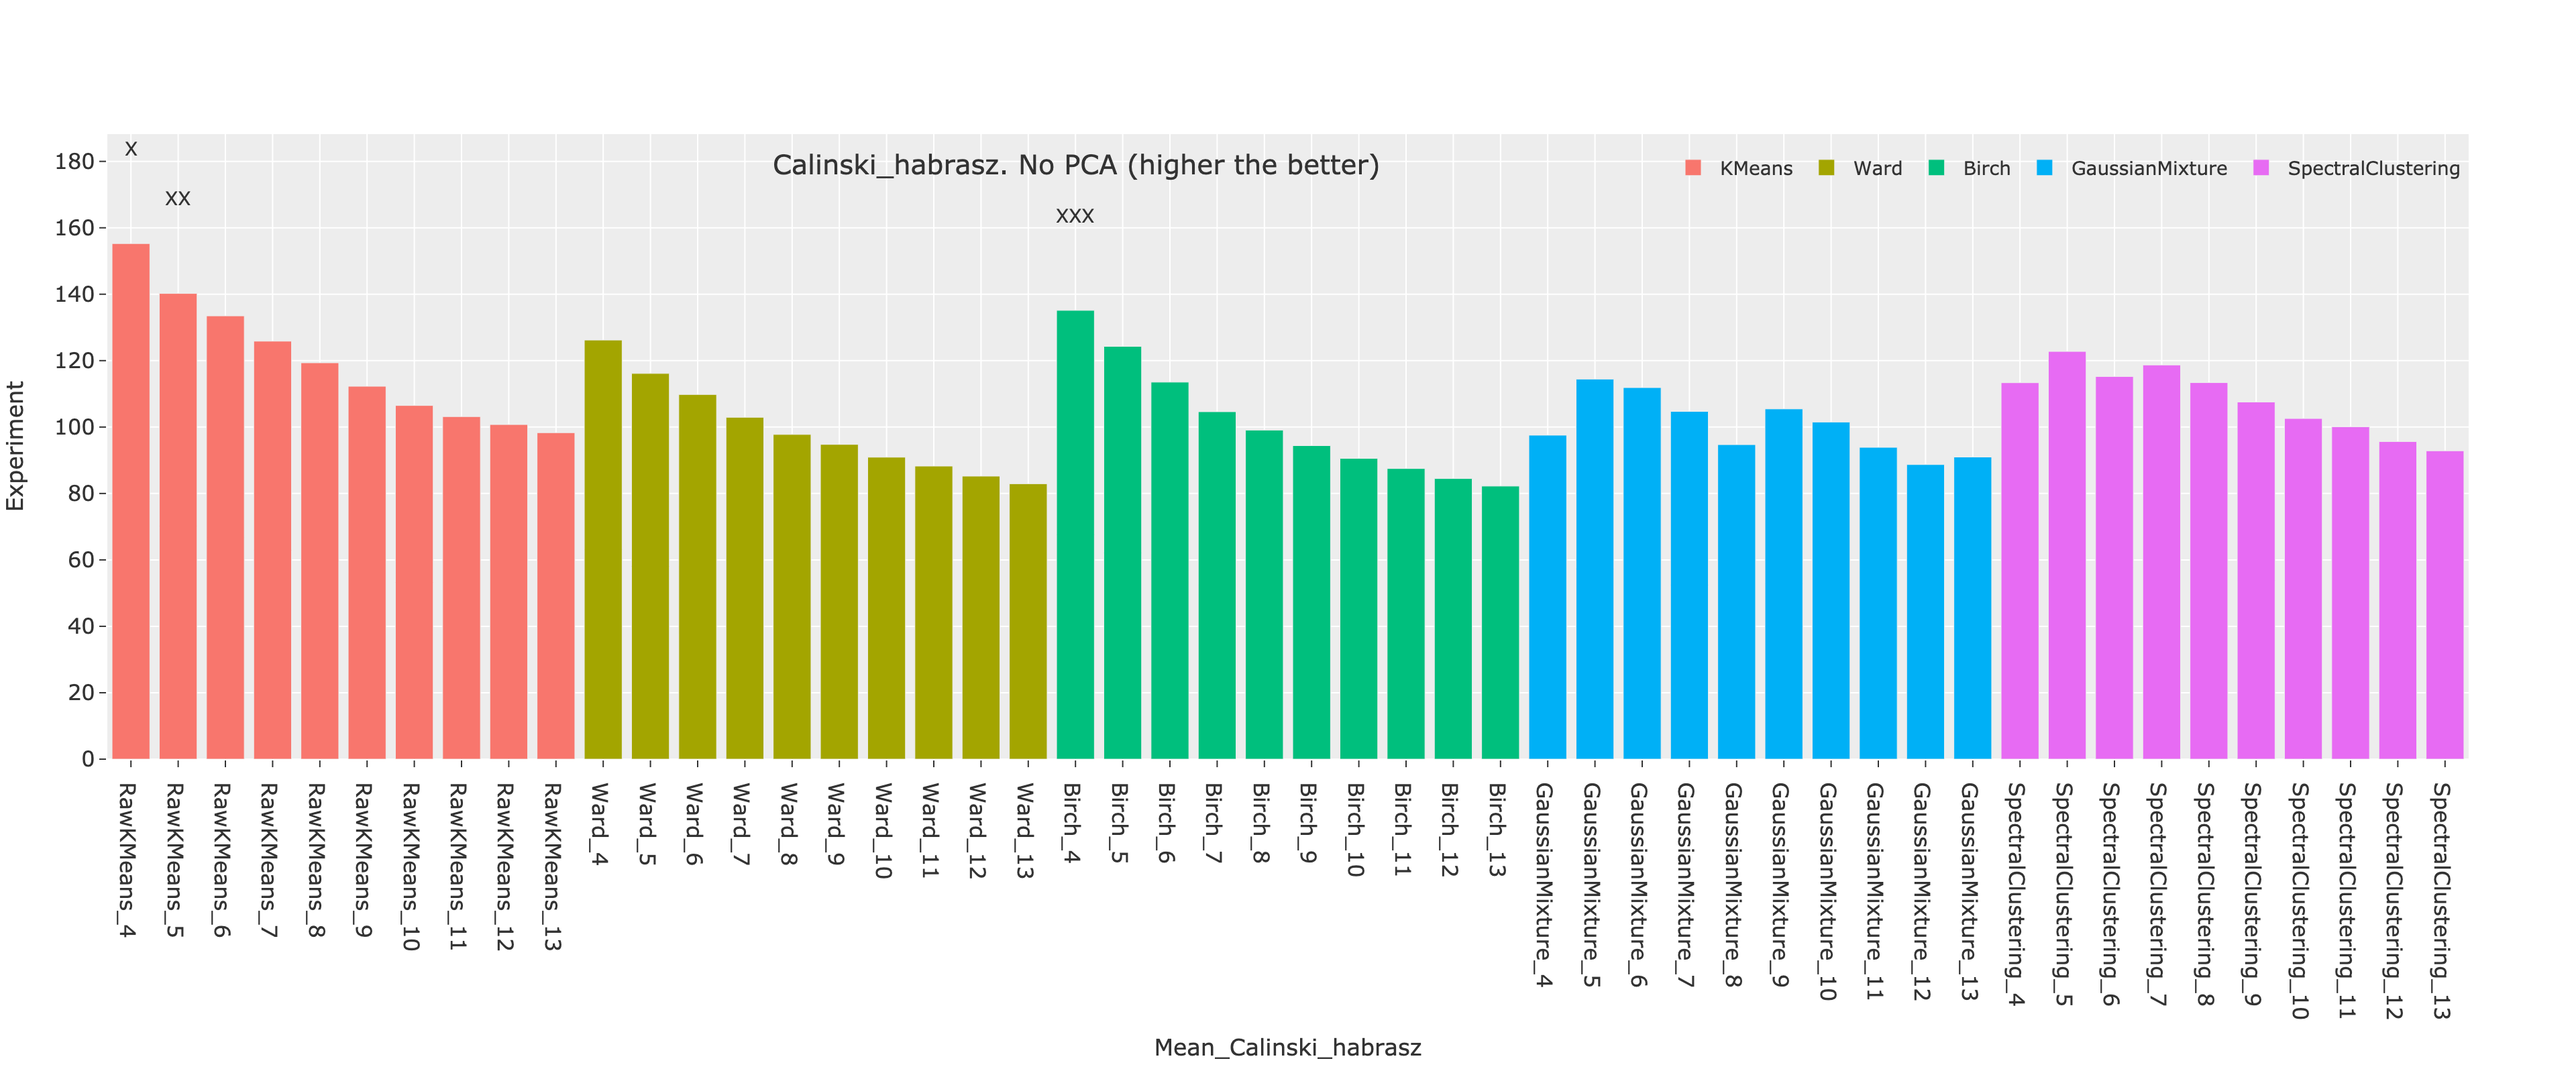
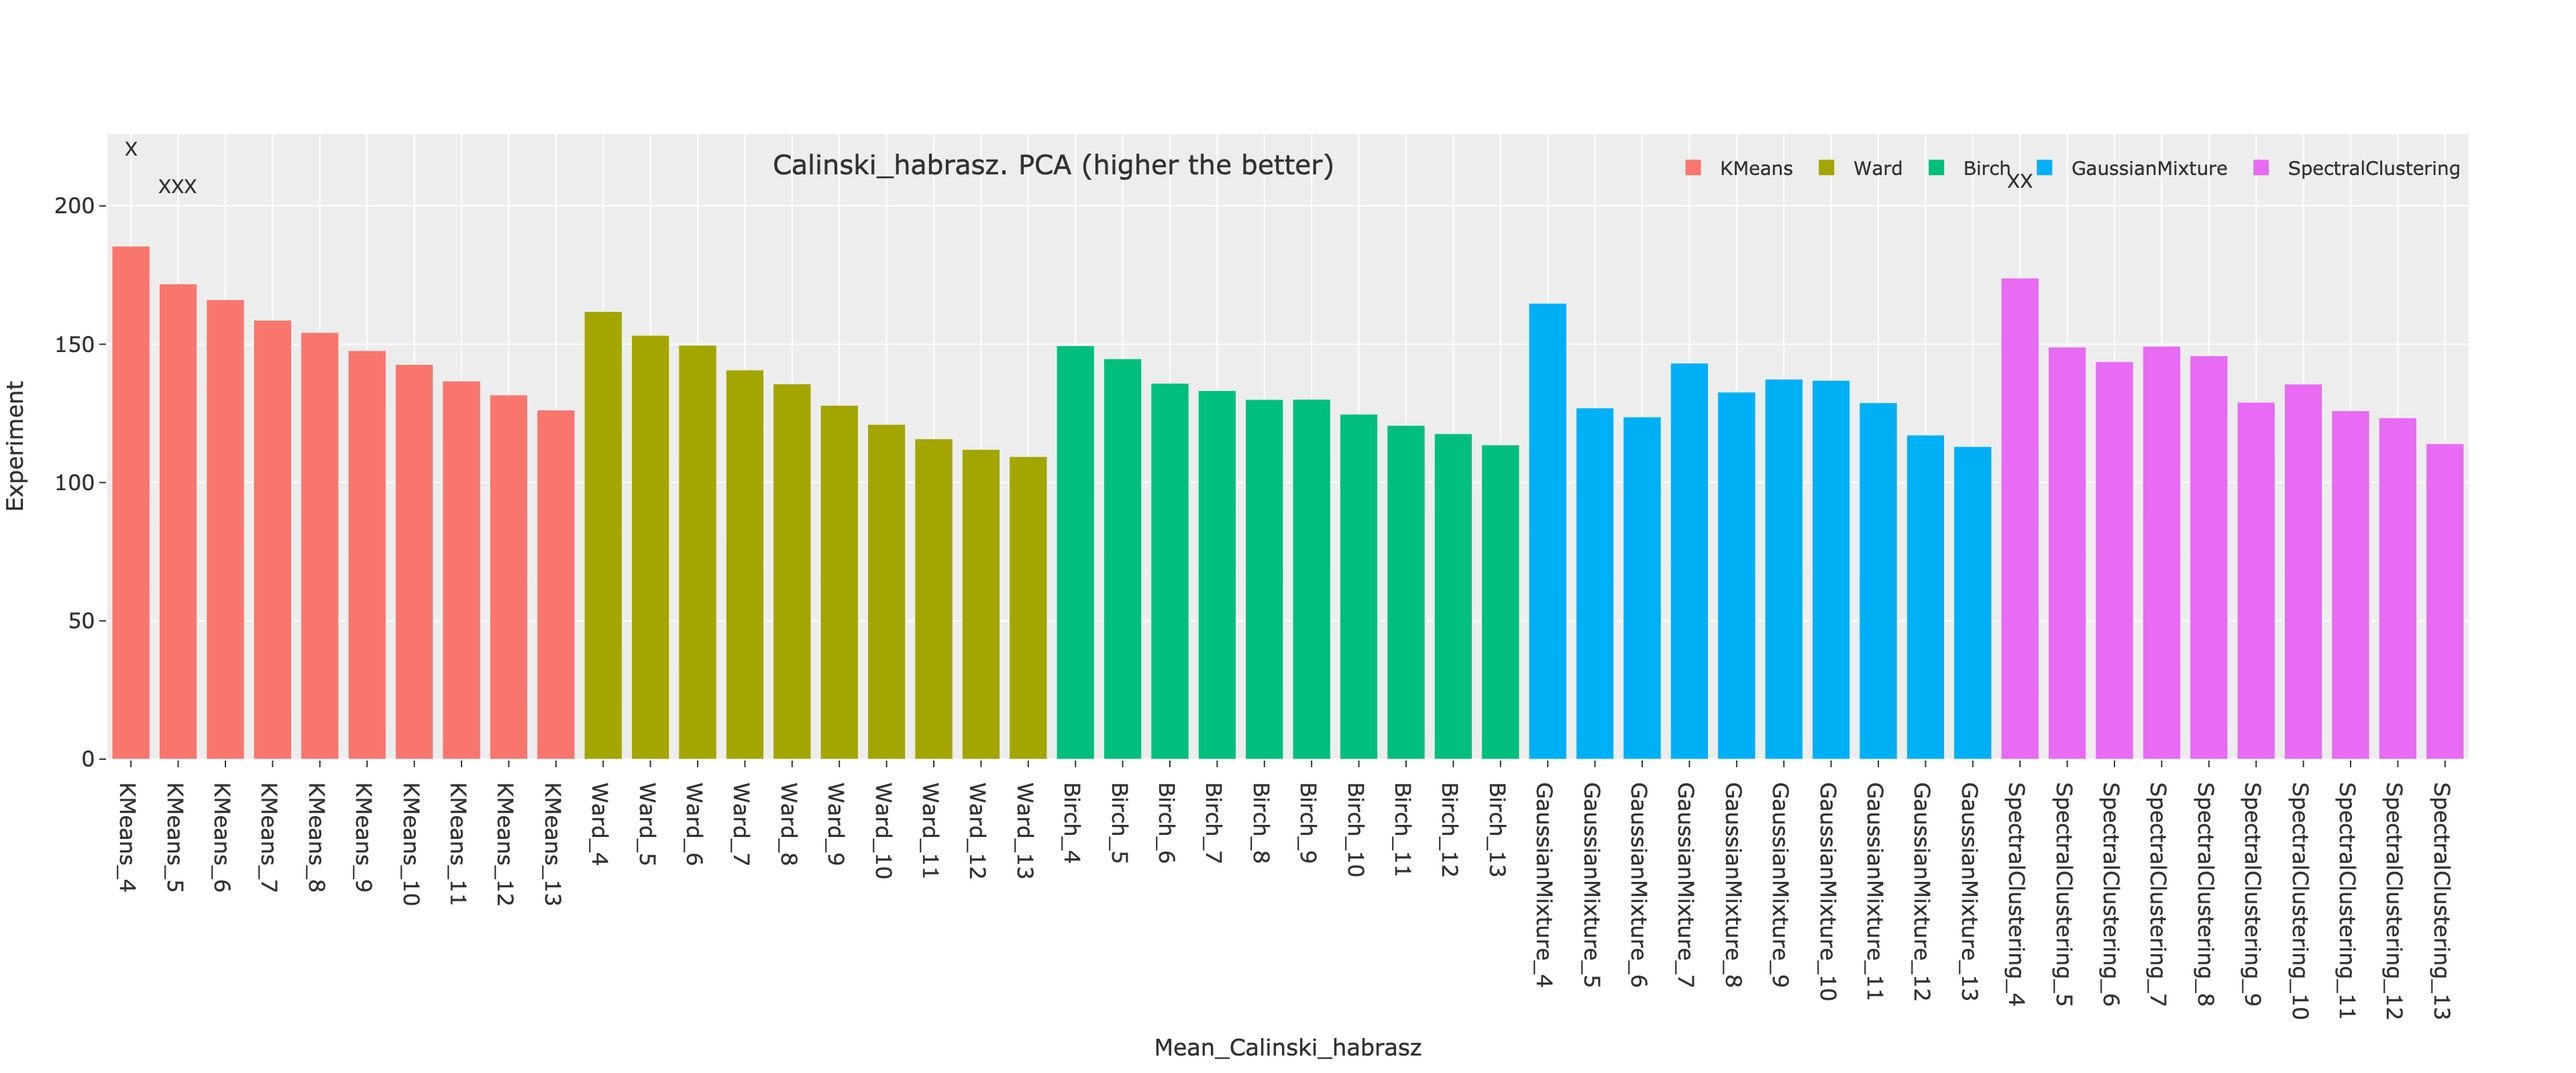
Draft of the methods for clustering analysis

diff --git a/Sections/ClusteringAnalysis/experiments.tex b/Sections/ClusteringAnalysis/experiments.tex
@@ -1,36 +1,136 @@
-\subsection{Experiments - finding the right cluster model} 
+\subsection{Experiments} 
 
-% pca vs non-pca
+The in-depth code implementation of the experiment run in this section can be found in the \textit{ReClassification\_42 Jupyter Notebook} and the\textit{ modelling.py} script file, in the \href{https://github.com/vladUng/Phd_thesis_exp}{GitHub repository} that accompanies this PhD project. There are five different models that are used to determine the right cluster algorithm, the following configurations that were changed from the default are: 
+\begin{itemize}
+    \item \textbf{K-Means -} The maximum iteration was set to 1000
+    \item \textbf{Ward -} Agglomerative clustering, Ward linkage, connectivity matrix is computed with k-neighbours configured to 5 neighbours for each point
+    \item \textbf{Birch -} The birch\_th was set to 1.7
+    \item \textbf{Gaussian Mixture -} The covariant type was set to diagonal and the maximum iteration was set to 500
+    \item \textbf{Spectral Clustering -} The eigenvalue decomposition was configured to arpack and the affinity matrix was constructed based on the nearest neighbours
+\end{itemize}. 
 
-% cluster model
-
-% cluster size
-
-% The number of components
-
+Before the clustering methods are applied the Principal Component Analysis (PCA) is used to reduce the dimensions of the data. Using PCA improves the performance of the algorithms which can be seen in the metrics scores for PCA transformed data in \cref{fig:cs:cs_metrics} vs th non-PCA \cref{fig:ap:non_pca_metrics} in Appendix. The scale (or Y-axis) of the Silhouette doubles, the Calinski Harabasz triples and Davies-Bouldin halves (lower the better), when the PCA is applied before the clustering methods. The number of components for PCA is set to 4 as it is the number of components after which adds less than 1\% of the PCA variance\footnote{The PCA variance is a measure of the information contained per component}.
 
 \begin{figure}[H]
     \captionsetup[subfigure]{justification=Centering}
     \centering
-    \begin{subfigure}[!t]{0.9\textwidth}
+    \begin{subfigure}[!t]{0.85\textwidth}
         \includegraphics[width=\textwidth]{Sections/ClusteringAnalysis/Resources/cs_top3/PCA_top3_Silhoute_cosine.png}
         \caption{Silhouette using cosine distance}
         \label{fig:cs:cosine}
     \end{subfigure}
     \centering
-    \begin{subfigure}[!t]{0.9\textwidth}
+    \begin{subfigure}[!t]{0.85\textwidth}
         \includegraphics[width=\textwidth]{Sections/ClusteringAnalysis/Resources/cs_top3/PCA_top3_Calinski_habrasz.png}
         \caption{Calinski Harabasz}
         \label{fig:cs:cal_hab}
     \end{subfigure}
     \centering
-    \begin{subfigure}[!t]{0.9\textwidth}
+    \begin{subfigure}[!t]{0.85\textwidth}
         \includegraphics[width=\textwidth]{Sections/ClusteringAnalysis/Resources/cs_top3/PCA_top3_Davies_bouldin.png}
         \caption{Davies Bouldin}
         \label{fig:cs:dav_boul}
     \end{subfigure}
-    \caption{The means of the three cluster metrics introduced in \cref{s:lit:clustering_metrics}: Silhouette (cosine), Calinski Harabasz and Davies Bouldin. Each of them asses different aspects of clustering and are used to determined the right clustering model for the MIBC cohort from TCGA. The gene expression is processed according to \cref{s:cs:methods} and PCA with 5 components was applied. }
+    \caption{The means of the three cluster metrics introduced in \cref{s:lit:clustering_metrics}: Silhouette (cosine), Calinski Harabasz and Davies Bouldin. Each of them asses different aspects of clustering and are used to determined the right clustering model for the MIBC cohort from TCGA. The gene expression is processed according to \cref{s:cs:methods} and PCA with 5 components was applied. For each metric the top 3 most performing models are marked by "X". }
     \label{fig:cs:cs_metrics}
 \end{figure}
 
+
+The performance of the five clustering methods across $K\in(4, 13)$ is displayed in
+\cref{fig:cs:cs_metrics}; note lower bound of $K=4$ was chosen as lower K scored better than the others. The number of 'X' markers on top of the bar marks the model's position in top three. From the plots, it can be seen that the K-means generally performs the best across the clustering methods. A general trends across the methods is that their inverse relationship between the algorithm's performance over the number of groups. This is the most evident in the Calinski Harabasz score (\cref{fig:cs:cal_hab}) and in Davies Bouldin index (\cref{fig:cs:dav_boul}), but less pronounced in the Silhouette score (\cref{fig:cs:cosine})
+
+
+\begin{figure}[!htb]
+    \captionsetup[subfigure]{justification=Centering}
+    \centering
+    \begin{subfigure}[!t]{0.49\textwidth}
+        \includegraphics[width=\textwidth]{Sections/ClusteringAnalysis/Resources/cs_top3/top3_cs_gen_top3_heatmap_pca.png}
+        \caption{Most frequent cluster model}
+        \label{fig:cs:heatmap_gen}
+    \end{subfigure}
+    \centering
+    \begin{subfigure}[!t]{0.49\textwidth}
+        \includegraphics[width=\textwidth]{Sections/ClusteringAnalysis/Resources/cs_top3/top3_cs_size_top3_heatmap_pca.png}
+        \caption{Most frequent K in top 3}
+        \label{fig:cs:heatmap_cs}
+    \end{subfigure}
+    \caption{Most frequent model and K by the clustering metrics. For each heatmap the rows are given by top model/K for that metric, while the X axis contains the methods used. The colouring is done per column, so it can be determine the right configuration per model and for the number of clusters.}
+    \label{fig:cs:cs_metrics_heatmap}
+\end{figure}
+
+To aid the decision making, the top 3 most performing configuration is displayed per cluster metric in \cref{fig:cs:cs_metrics_heatmap}. The two heat-maps are similar, each column represents the algorithm while the rows the cluster metrics, the colouring is done by the occurrence per algorithm. In the first heatmap, \cref{fig:cs:heatmap_gen} the colour is proportional with the occurrence of the model configuration, while in the second \cref{fig:cs:heatmap_cs} the colouring is given by the number of clusters. This means, that the first plot gives the most popular model configuration per algorithm, while the second the most frequent K. From this, K-Means with 5, Spectral Clustering with 7 clusters and K=5 and K=7 are the most frequent methods/group sizes. 
+
+
+\paragraph*{Silhouette distribution}
+
+% Sillhouette
+So far the decision making was made by using the mean of the clustering metrics, while this helped to select the model and the number of clusters, the average does not contain the variation in the scores. To address, the distribution of the Silhouette scores\footnote{The experiment for this is an adapted version of the \href{https://tinyurl.com/sillhouete-distrib}{example} from Scikit-learn library.} was plotted in \cref{fig:cs:sill_distrib} for the K-means model between 3 to 6 clusters. A restricted range of K was used to facilitate the visualisation and the previous results (\cref{fig:cs:cs_metrics}) suggests that there is little benefit for adding more. 
+
+
+\begin{figure}[!t]
+    \captionsetup[subfigure]{justification=Centering}
+    \centering
+    \begin{subfigure}[!t]{0.49\textwidth}
+        \includegraphics[width=\textwidth]{Sections/ClusteringAnalysis/Resources/cs_top3/sill_distrib/KMeans_3_sill_distrib.png}
+        \caption{K=3}
+    \end{subfigure}
+    \centering
+    \begin{subfigure}[!t]{0.49\textwidth}
+        \includegraphics[width=\textwidth]{Sections/ClusteringAnalysis/Resources/cs_top3/sill_distrib/KMeans_4_sill_distrib.png}
+        \caption{K=4}
+    \end{subfigure}
+    \centering
+    \begin{subfigure}[!t]{0.49\textwidth}
+        \includegraphics[width=\textwidth]{Sections/ClusteringAnalysis/Resources/cs_top3/sill_distrib/KMeans_5_sill_distrib.png}
+        \caption{K=5}
+    \end{subfigure}
+    \centering
+    \begin{subfigure}[!t]{0.49\textwidth}
+        \includegraphics[width=\textwidth]{Sections/ClusteringAnalysis/Resources/cs_top3/sill_distrib/KMeans_6_sill_distrib.png}
+        \caption{K=6}
+    \end{subfigure}
+    \centering
+    \begin{subfigure}[!t]{0.49\textwidth}
+        \includegraphics[width=\textwidth, keepaspectratio]{Sections/ClusteringAnalysis/Resources/cs_top3/sill_distrib/sill_neg_above_th.png}
+        \caption{Number of samples with negative and above 0.5 Silhouette scores}
+    \end{subfigure}
+    \centering
+     \begin{subfigure}[!t]{0.49\textwidth}
+        \includegraphics[width=\textwidth, keepaspectratio]{Sections/ClusteringAnalysis/Resources/cs_top3/sill_distrib/sky_kMeans.png}
+        \caption{Comparison across clustering methods}
+    \end{subfigure}
+    \centering
+    \caption{The silhouette distribution of the K-means model for K ranging from 3 to 6. The scatter plot on the right plots the first 2 components of PCA (4 components) coloured by the cluster labels from the method. A good silhouette score is considered to be above 0.5, which is marked on by the red dotted line. The sankey plot shows the comparison across the different configurations of K-Means.}
+    \label{fig:cs:sill_distrib}
+\end{figure}
+
+
+The first two rows on \cref{fig:cs:sill_distrib} present the subplots containing the Silhouette distribution and the 2-d scatter plot of the first two principal components. Generally, a silhouette score above 0.5 is considered a good good and that the sample belongs to its group, values around 0 indicates that the sample can be grouped to multiple clusters, while the negative values denotes the miss-labelled of the samples. Across the top 4 plots, it can be seen that the vast majority of the samples are below the 0.5 threshold. This indicates the lack of clear defined clusters and high heterogeneity of the data which is a known aspect of the MIBC 'molecular profile' (see \cref{s:lit:bladder_cancer}). As it was mentioned before, K=3 has a higher mean score than the other models, but in the top right plot it can be seen that most of the samples are below the 0.5. As the number of K increases, the number of samples with negative or above 0.5 Silhouette scores is fairly stable as seen in the bottom-right bar plot. 
+
+% Commenting the Sankey
+Lastly, the Sankey plot shows the cluster evolution as K it is increased. Initially there are three groups at K=3: Basal, Luminal and luminal infiltrated, but then at K=4, the Basal is split into 4 groups and later into 3 at K=5, which are kept till K=6. The large luminal is split only at K=6, this is surprising as in the previous classifications usually the luminal group split into smaller groups.
+
+Based on the analysis done in this section, K-means with K=5 and K=6 are the most suitable configuration for the model. However, K-means with K=5 consistently scores higher across the clustering metrics and it is the configuration chosen to go forward over the K=6 which it also splits the luminal large group.
+
 \subsection{Summary}
+
+The pipeline and configuration of the different components can be summarised in the \cref{fig:cs:clustering_pipeline} and has three stages:
+\begin{enumerate}
+    \item The data is pre-processed, only the genes that are expressed in 90\% of the samples. \item From this, the top $3500$ with the highest std/median ratio are kept. Ensuring to retain the genes that have a high relative variance across samples. The number of genes represent ~25\% of the filtered dataset and it is a similar size to the data used by \citet{Robertson2017-mg}.
+    \item To the resultant gene set of $408x3500$ (samples, genes) is log2(TPM+1) transformed (dealing with 0 values) and the PCA with 4 components is applied
+    \item On the $408x4$ K-means with K=5 is applied, resulting in the scatter plot at the end of the pipeline.
+\end{enumerate}
+
+\begin{figure}[!htb]    
+    \centering
+    \includegraphics[width=1\textwidth,keepaspectratio]{Sections/ClusteringAnalysis/Resources/clustering_pipeline.png}
+    \caption{Summary of the clustering analysis developed in this section}
+    \label{fig:cs:clustering_pipeline}
+\end{figure}
+
+The clustering analysis established in this part of the thesis is simple using basic clustering and dimension reduction techniques. So far the approach taken was unbiased and the configurations were decided based on established clustering metrics. There was no domain knowledge used, apart from the guiding parameters for the numbers of genes to be kept from the TCGA's MIBC paper from \citet{Robertson2017-mg}. It can be noted that the number of clusters arrived is the same as in the above-mentioned work and that the consensus \citet{Kamoun2020-tj} found 6 subtypes. 
+
+In the following section, the 5 clusters are explored in more depth and put in the context of the other work performed in the Jack Birch Unit \citet{Baker2022-bj}, TCGA \citet{Robertson2017-mg}, Lund classifier \citet{Marzouka2018-ge} and the consensus \citet{Kamoun2020-tj}. It will also cover their clinical implication by performing Kaplan-Meier survival analysis and Defferentialy Expressed Analysis (DEA).
+
+
+
